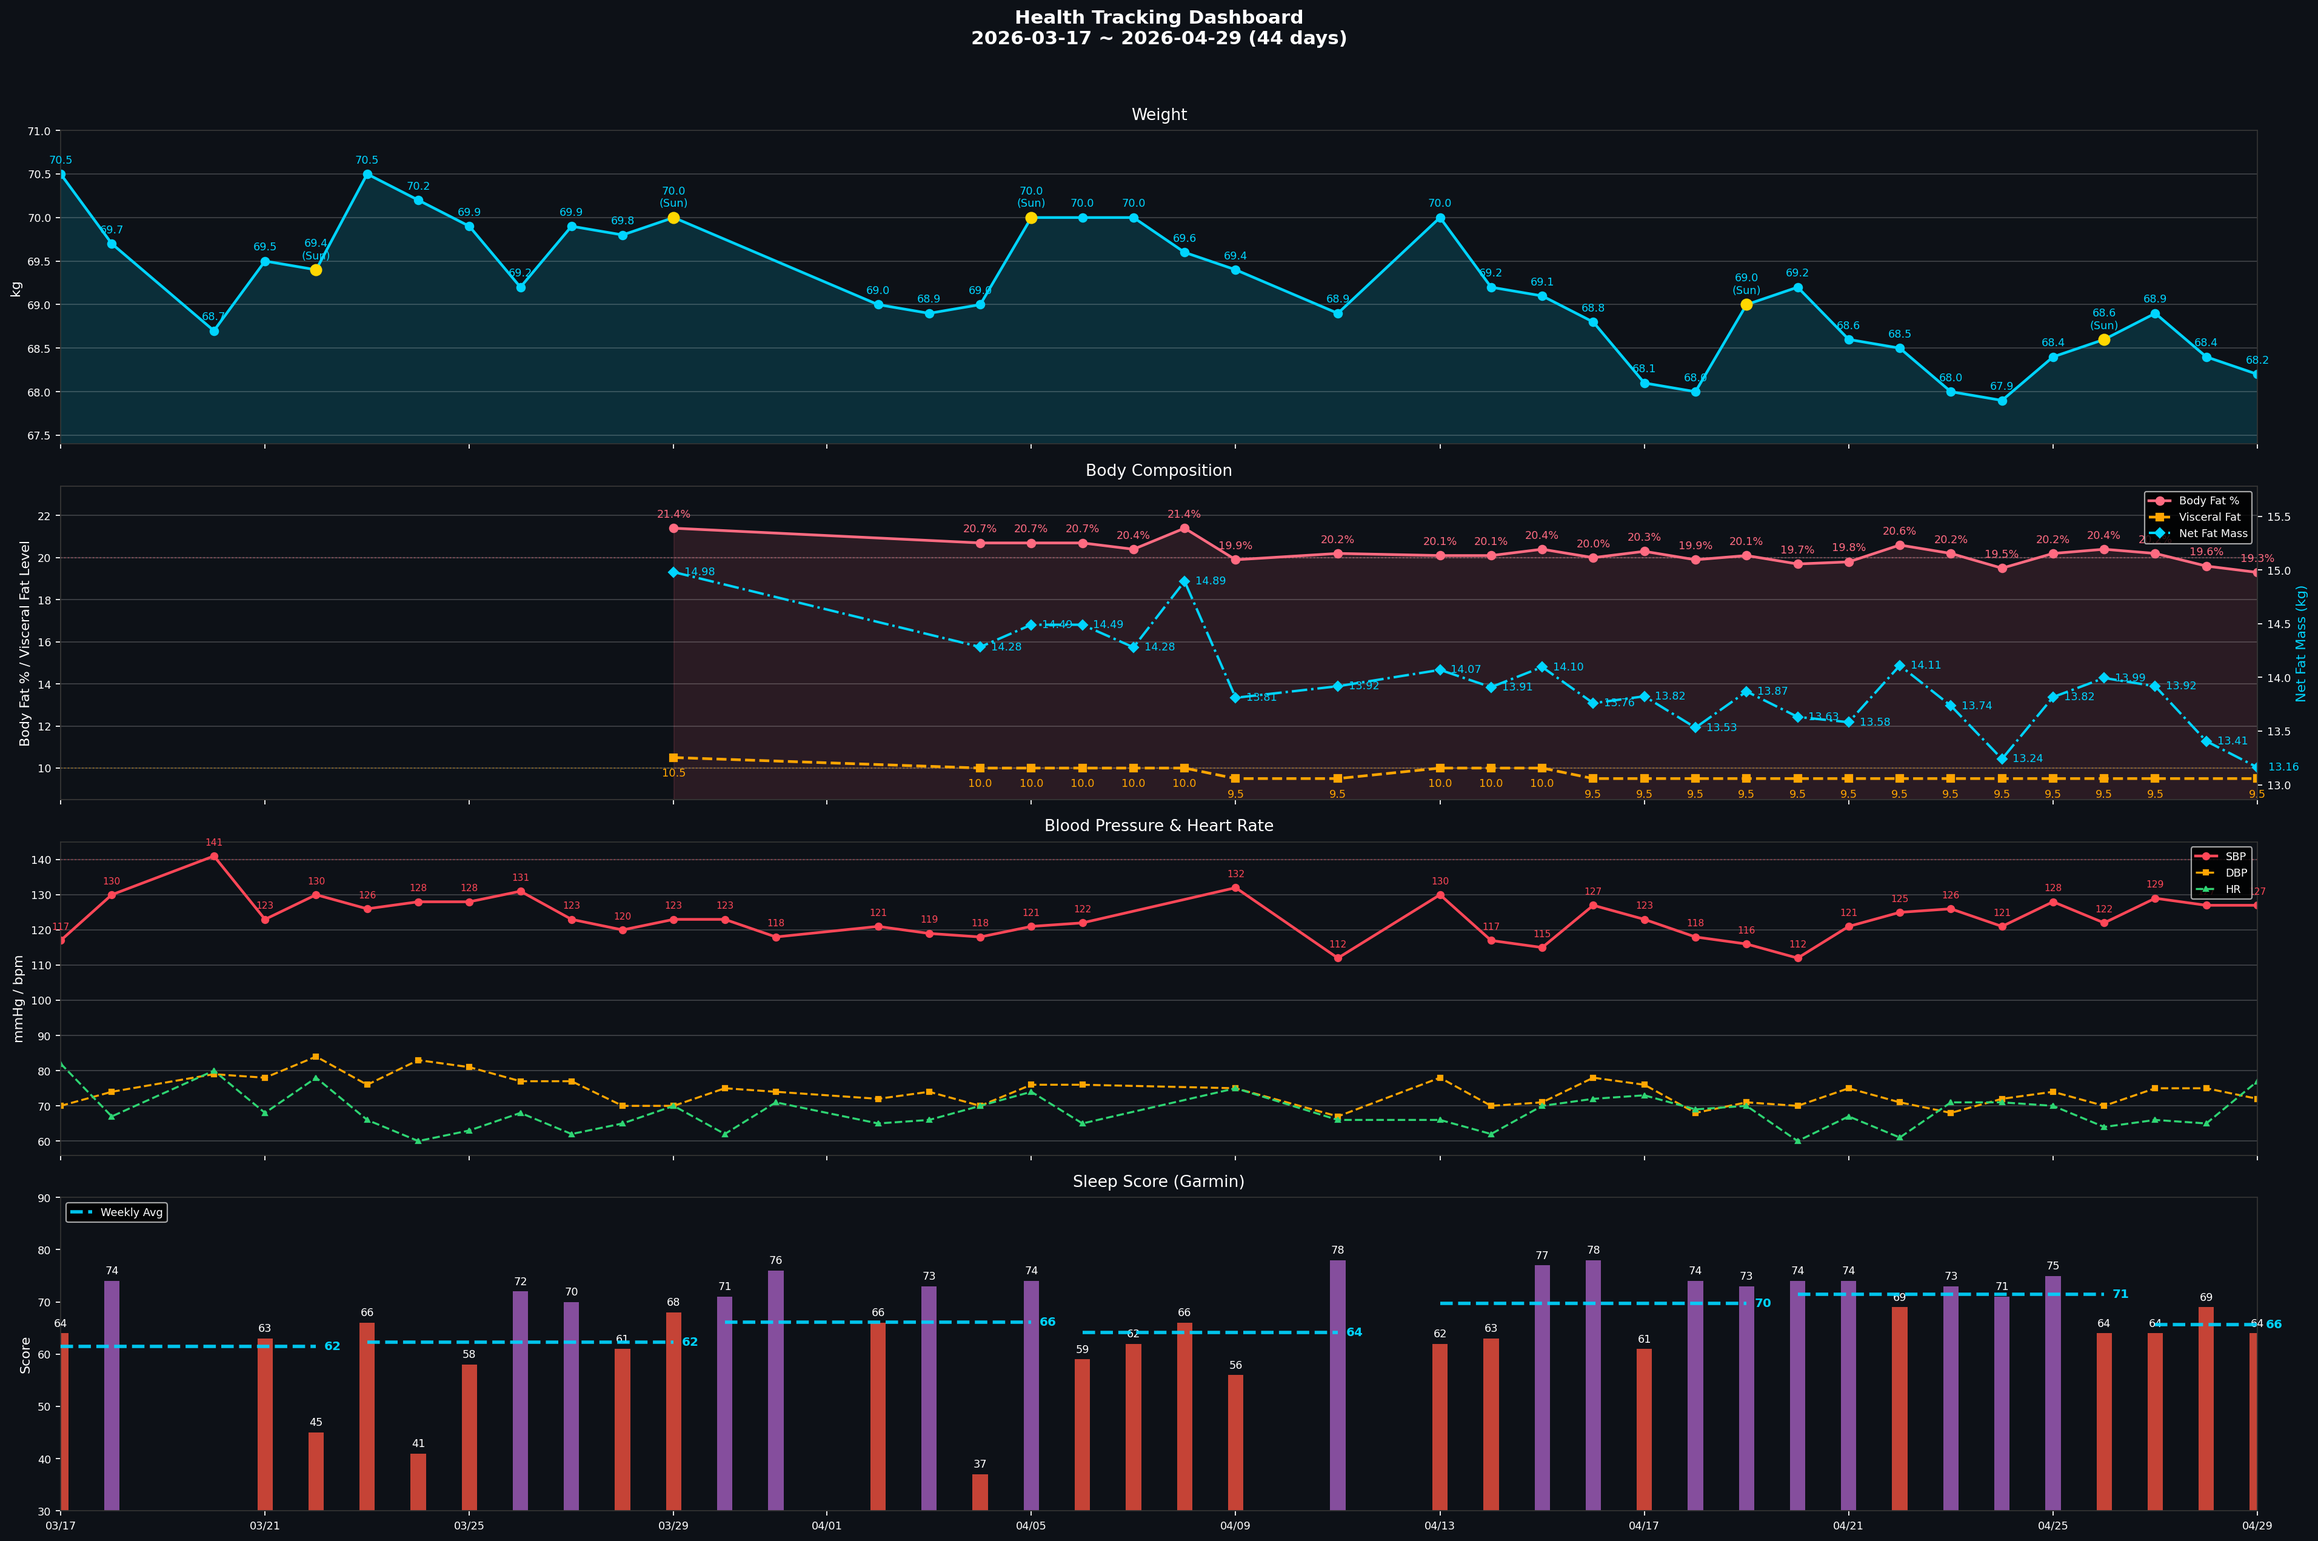
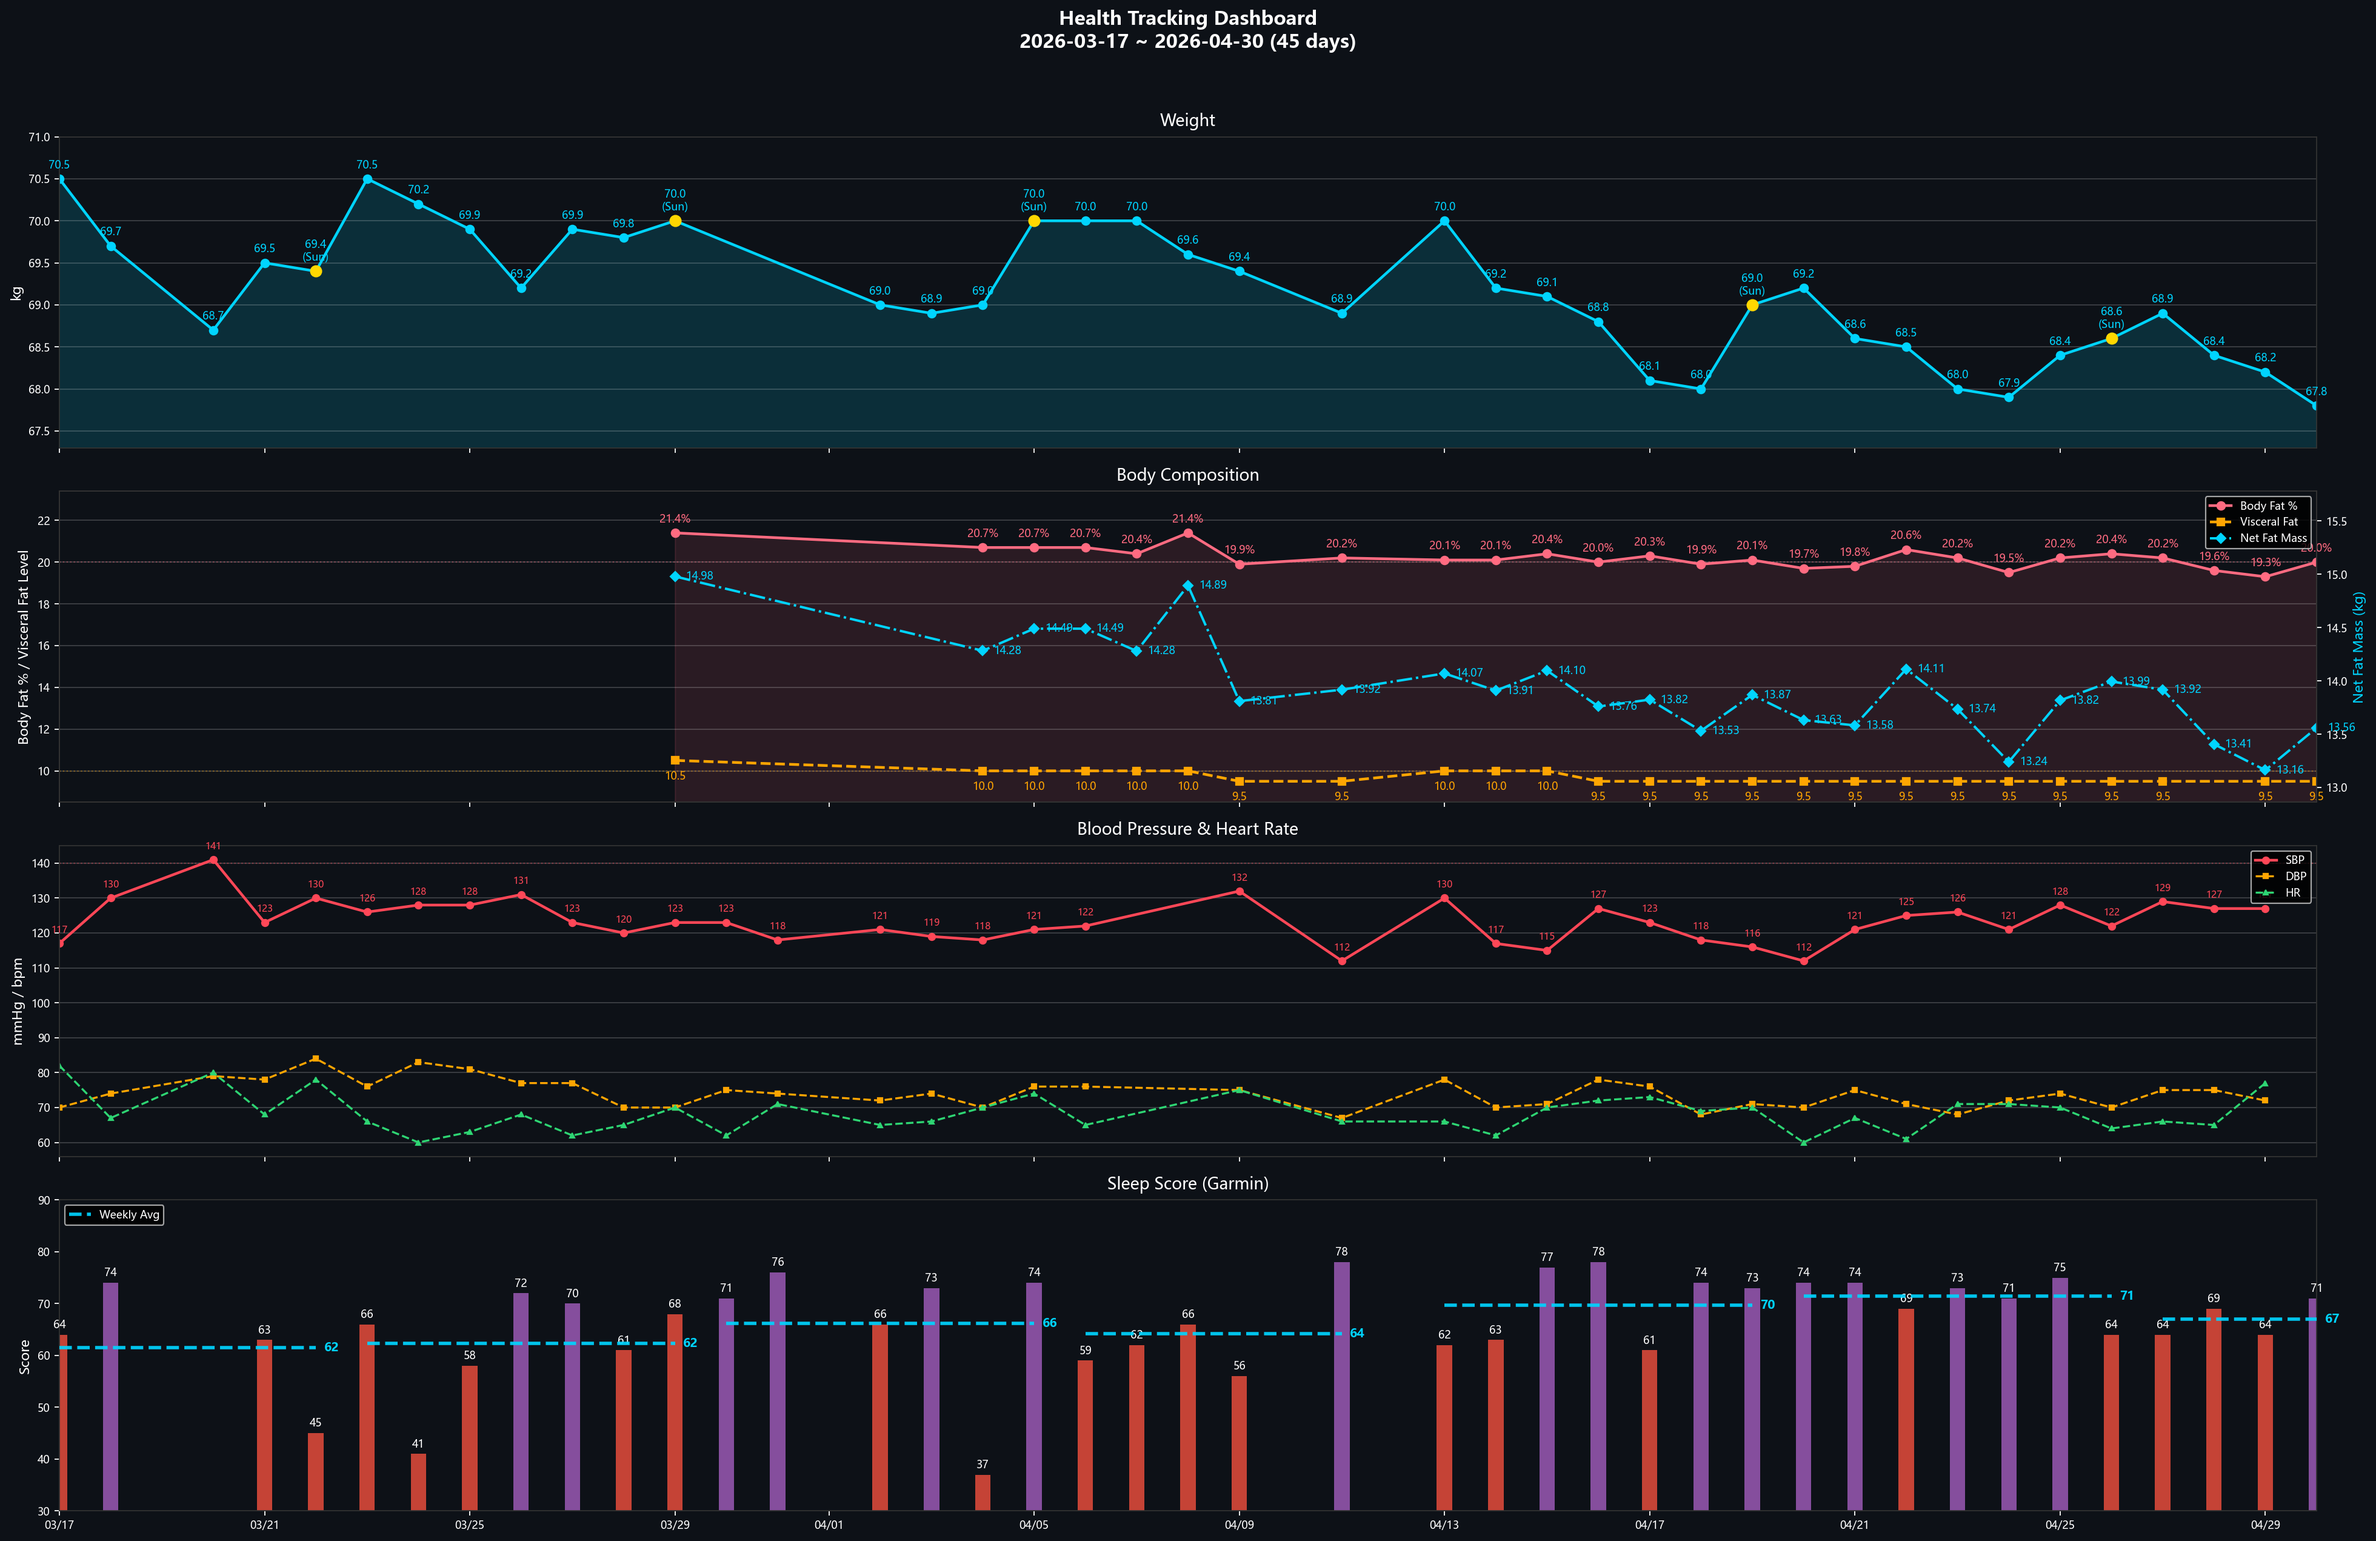
daily: 2026-04-30 — Sleep Score 71 / Body Battery 51；SpO2 連 4 晚 < 88%（Fexofenadine 鼻通但 SpO2 未改善 → OSA 主因）
- 體重 67.8 kg / 體脂 20.0% / 內臟脂肪 9.5
- 睡眠：22:04-04:26（6h08m）｜深眠 120m / REM 53m｜主觀 3/5｜醒 1 次
- SpO2 最低 82%（連 4 晚 < 88%：82→81→79→82）
- 04-29 睡前服 Fexofenadine 180mg 鼻通改善但 SpO2 未改善 → 排除上呼吸道阻塞，OSA 為主因
- 昨日：步數 11,300、飲水 2.45L 達標
- 計畫：散步 + 伸展，PSG 預約不可再延

diff --git a/reviews/weekly/2026-W18.md b/reviews/weekly/2026-W18.md
@@ -31,9 +31,9 @@
 
 |  | 一 | 二 | 三 | 四 | 五 | 六 | 日 |
 |--|----|----|----|----|----|----|-----|
-| 體重 (kg) | 68.9 | 68.4 | 68.2 | | | | |
-| 體脂率 (%) | 20.2 | 19.6 | 19.3 | | | | |
-| 內臟脂肪 | 9.5 | 9.5 | 9.5 | | | | |
+| 體重 (kg) | 68.9 | 68.4 | 68.2 | 67.8 | | | |
+| 體脂率 (%) | 20.2 | 19.6 | 19.3 | 20.0 | | | |
+| 內臟脂肪 | 9.5 | 9.5 | 9.5 | 9.5 | | | |
 
 **本週正式讀數（週六早晨）：** 待 2026-05-02
 **上週正式讀數（週六早晨）：** 68.4 kg｜體脂率：20.2%｜內臟脂肪：9.5
@@ -48,7 +48,7 @@
 | 2026-04-27 (一) | 129 | 75 | 66 |
 | 2026-04-28 (二) | 127 | 75 | 65 |
 | 2026-04-29 (三) | 127 | 72 | 77 |
-| 2026-04-30 (四) | | | |
+| 2026-04-30 (四) | — | — | — |
 | 2026-05-01 (五) | | | |
 | 2026-05-02 (六) | | | |
 | 2026-05-03 (日) | | | |
@@ -66,7 +66,7 @@
 | 2026-04-27 (一) | 21:39 | 05:21 | 1 次（小孩夜驚） | 64 | 57 | 2 |
 | 2026-04-28 (二) | 20:59 | 04:53 | 2 次（陪睡幼兒夜驚） | 69 | 57 | 2 |
 | 2026-04-29 (三) | 21:38 | 06:00 | 3 次（N/A） | 64 | 58 | 3 |
-| 2026-04-30 (四) | | | | | | |
+| 2026-04-30 (四) | 22:04 | 04:26 | 1 次（N/A） | 71 | 51 | 3 |
 | 2026-05-01 (五) | | | | | | |
 | 2026-05-02 (六) | | | | | | |
 | 2026-05-03 (日) | | | | | | |
@@ -111,6 +111,7 @@
 | 2026-04-27 | 計畫：溫和伸展 10-15 分鐘（恢復日 — Sleep Score 64 + 主觀 2 + 大腿 DOMS） |
 | 2026-04-28 | 散步（walk）+ 伸展（stretch）— 恢復為主，主觀 2/5 |
 | 2026-04-29 | 計畫：散步（walk）+ 伸展（前頸 / 胸椎 / 髂腰肌）— 恢復為主 |
+| 2026-04-30 | 計畫：散步（walk）+ 伸展（前頸 / 胸椎 / 髂腰肌）— 恢復一般 |
 
 ---
 
@@ -140,6 +141,7 @@
 | SpO2 連 2 晚 < 88%（86/84） | 延續 W17 PSG 預約進度，今晚追蹤第 3 晚 | 待觀察 |
 | SpO2 04-27/04-28 最低 82%/81% | OSA 紅旗持續，今晚為第 3 晚觀察點，若再 < 88% 啟動 PSG 預約 | 待觀察 |
 | **SpO2 04-29 最低 79%（連 3 晚 < 88%：82→81→79）** | **強烈 OSA 紅旗，立即啟動 PSG 多項睡眠檢查預約** | 待觀察 |
+| **SpO2 04-30 最低 82%（連 4 晚 < 88%：82→81→79→82）** | 04-29 睡前服用 Fexofenadine 180mg 改善鼻塞主觀感受，但 SpO2 未改善 → 排除上呼吸道阻塞唯一因素，OSA（咽喉/舌根塌陷）才是主因，PSG 預約不可再延 | 待觀察 |
 | Sleep Score 連 2 天 64 | 今日運動降級伸展，今晚 22:30 前就寢 | 待觀察 |
 | 昨日飲水 1.5L | 今晨起床 500 mL，17:00 前 1.5L+ | 待觀察 |
 

diff --git a/reviews/daily/2026-04-30.md b/reviews/daily/2026-04-30.md
@@ -1,0 +1,78 @@
+# 晨間健康紀錄 — 2026-04-30
+
+*3 分鐘。起床後立即完成。記錄，不分析。*
+
+---
+
+## 體重
+
+**今日：67.8 kg**
+**體脂率：20.0 %**
+**內臟脂肪等級：9.5**
+
+*每週六早晨為正式紀錄（排尿後、進食前；連 5 個工作日後、週末大餐前的真實低點）。其他日可選填。*
+
+---
+
+## 血壓（晨間）
+
+*起床後 1 小時內，上完廁所、進食前。坐下安靜 5 分鐘，連量兩次取第二次。*
+
+| 次數 | 收縮壓 | 舒張壓 | 心率 |
+|------|--------|--------|------|
+| 第一次 | — | — | — |
+| 第二次 | — | — | — |
+
+*今日未量測。*
+
+---
+
+## 睡眠狀態
+
+**實際就寢：** 22:04
+**實際起床：** 04:26
+**中途醒來：** 1 次（原因：N/A）
+**Garmin Sleep Score：** 71 / 100
+**Garmin Body Battery 起床值：** 51
+**主觀恢復感：** 3 / 5（1=極度疲憊, 5=精力充沛）
+
+*Sleep Score < 65 或 Body Battery < 50 連續三天 → 重新檢視睡眠修復方案。*
+
+**Garmin 補充：**
+- 總時長 6h 8m（深眠 120 分 / REM 53 分）
+- SpO2 最低 **82%** ⚠ OSA 紅旗（< 88%）；昨日 79%、前日 81%、前前日 82%，**連 4 晚 < 88%（82→81→79→82）**
+- RHR 60 bpm（-1 vs 昨日，安全區）｜日均壓力 21
+
+---
+
+## 昨日回顧
+
+**實際飲水量：** 2.45 L（達標 2.30L，Garmin 已紀錄）
+**步數：** 11,300（充足）
+
+---
+
+## 身體信號
+
+*任何張力、疼痛、疲勞、異常 — 或「清」。記位置、性質、強度。*
+
+| 部位 | 性質 | 強度 (0-10) |
+|------|------|-------------|
+| — | 清 | 0 |
+
+---
+
+## 今日計畫速記
+
+- [ ] 飲水目標：2.5 L（17:00 前完成 60-70%）
+- [ ] 補充品（標準時程）：早餐打包（魚油 ×1 + Vit D3K2 3000 IU + L-Citrulline 2g）｜午餐前 Psyllium 5g｜晚餐後 魚油 ×1 + EGCG｜睡前 鎂 400mg + 酸櫻桃 500mg
+- [ ] 運動：散步（walk）
+- [ ] 活動度/伸展：Stretch（前頸 / 胸椎 / 髂腰肌）
+
+---
+
+💡 **PT 建議：** **SpO2 連 4 晚 < 88%（82→81→79→82）— OSA 紅旗持續，PSG 多項睡眠檢查預約必須立即落實，不可再拖**。Sleep Score 71 + Body Battery 51 + 主觀 3/5 → 恢復一般，按計畫散步 + 伸展即可，不進階。RHR 60、日均壓力 21、身體信號清，整體可承受今日工作負荷。BP 今日未量，週四仍應補量以維持週均樣本。
+
+---
+
+*Filed: reviews/daily/2026-04-30.md*

diff --git a/reports/daily-garmin/2026-04-29.md b/reports/daily-garmin/2026-04-29.md
@@ -1,27 +1,21 @@
 # Garmin 每日摘要 — 2026-04-29
 
-## 睡眠
-- 就寢：21:38｜起床：06:00
-- 總時長：6h 51m
-- 深眠：114 分｜REM：66 分
-- Sleep Score：64
-- Body Battery 起床值：58
-
 ## 靜息心率
-- RHR：61.0 bpm
+- RHR：60.0 bpm
 
 ## 壓力
-- 日均：23
+- 日均：28
 
 ## 步數
-- 總計：128
+- 總計：11,300
 
 ## SpO2
-- 日均：94.0%
+- 日均：95.0%
 - 最低：79%
 
 ## 飲水
-- 實際：0.35 L
-- 目標：2.00 L
+- 實際：2.45 L
+- 目標：2.30 L
+- 運動流汗耗水：0.30 L
 
 _Source: data/garmin/2026-04-29.json (gitignored)_

diff --git a/reports/daily-garmin/2026-04-30.md b/reports/daily-garmin/2026-04-30.md
@@ -1,0 +1,24 @@
+# Garmin 每日摘要 — 2026-04-30
+
+## 睡眠
+- 就寢：22:04｜起床：04:26
+- 總時長：6h 8m
+- 深眠：120 分｜REM：53 分
+- Sleep Score：71
+- Body Battery 起床值：51
+
+## 靜息心率
+- RHR：60.0 bpm
+
+## 壓力
+- 日均：21
+
+## SpO2
+- 日均：95.0%
+- 最低：82%
+
+## 飲水
+- 實際：— （Garmin Connect 未紀錄，請於 check-in 手動輸入）
+- 目標：2.00 L
+
+_Source: data/garmin/2026-04-30.json (gitignored)_
